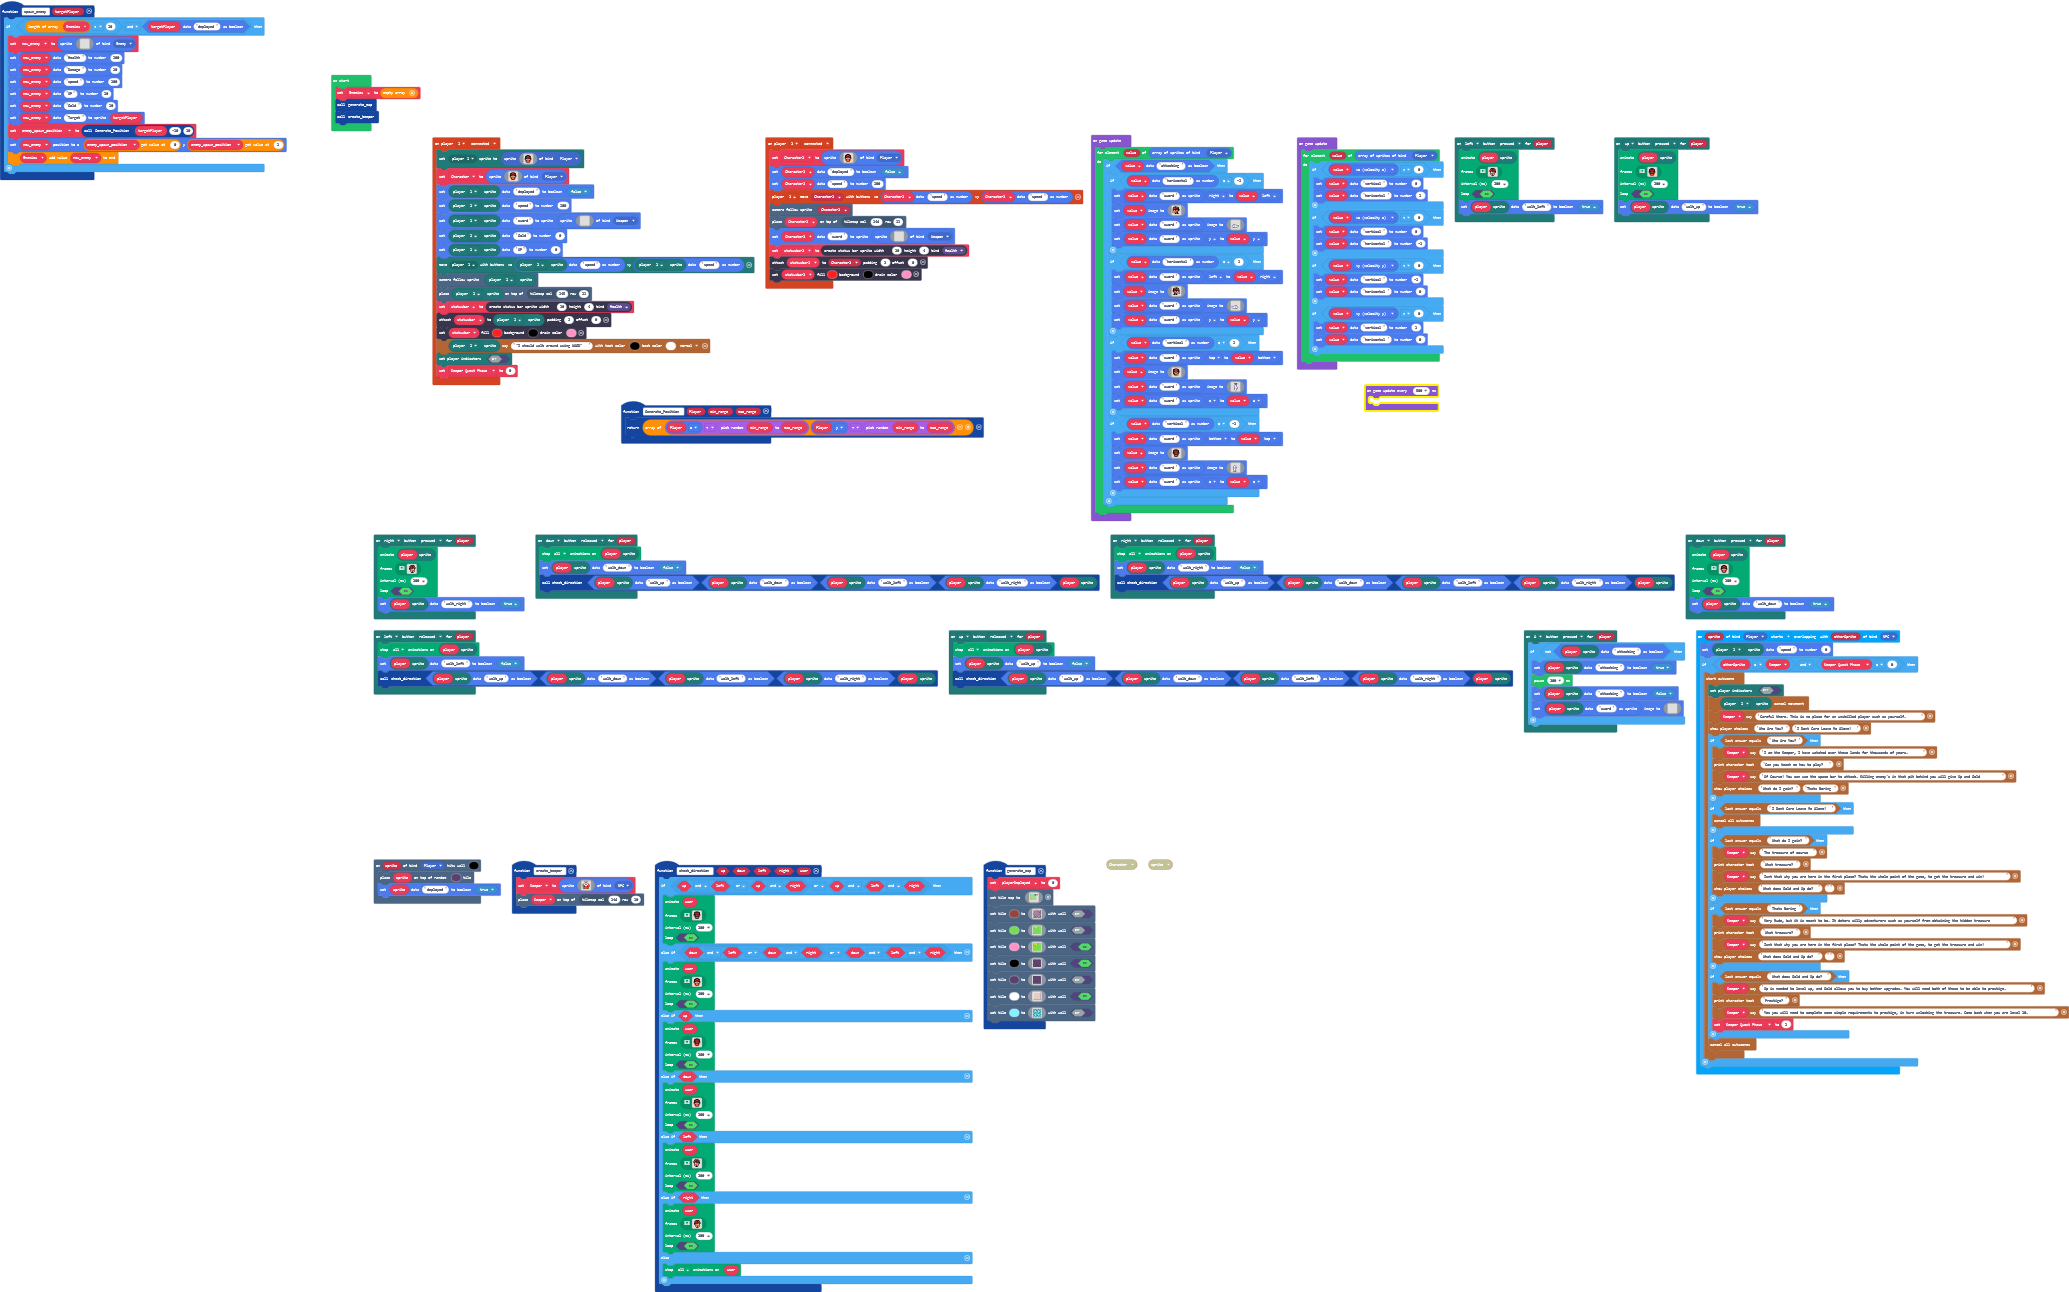
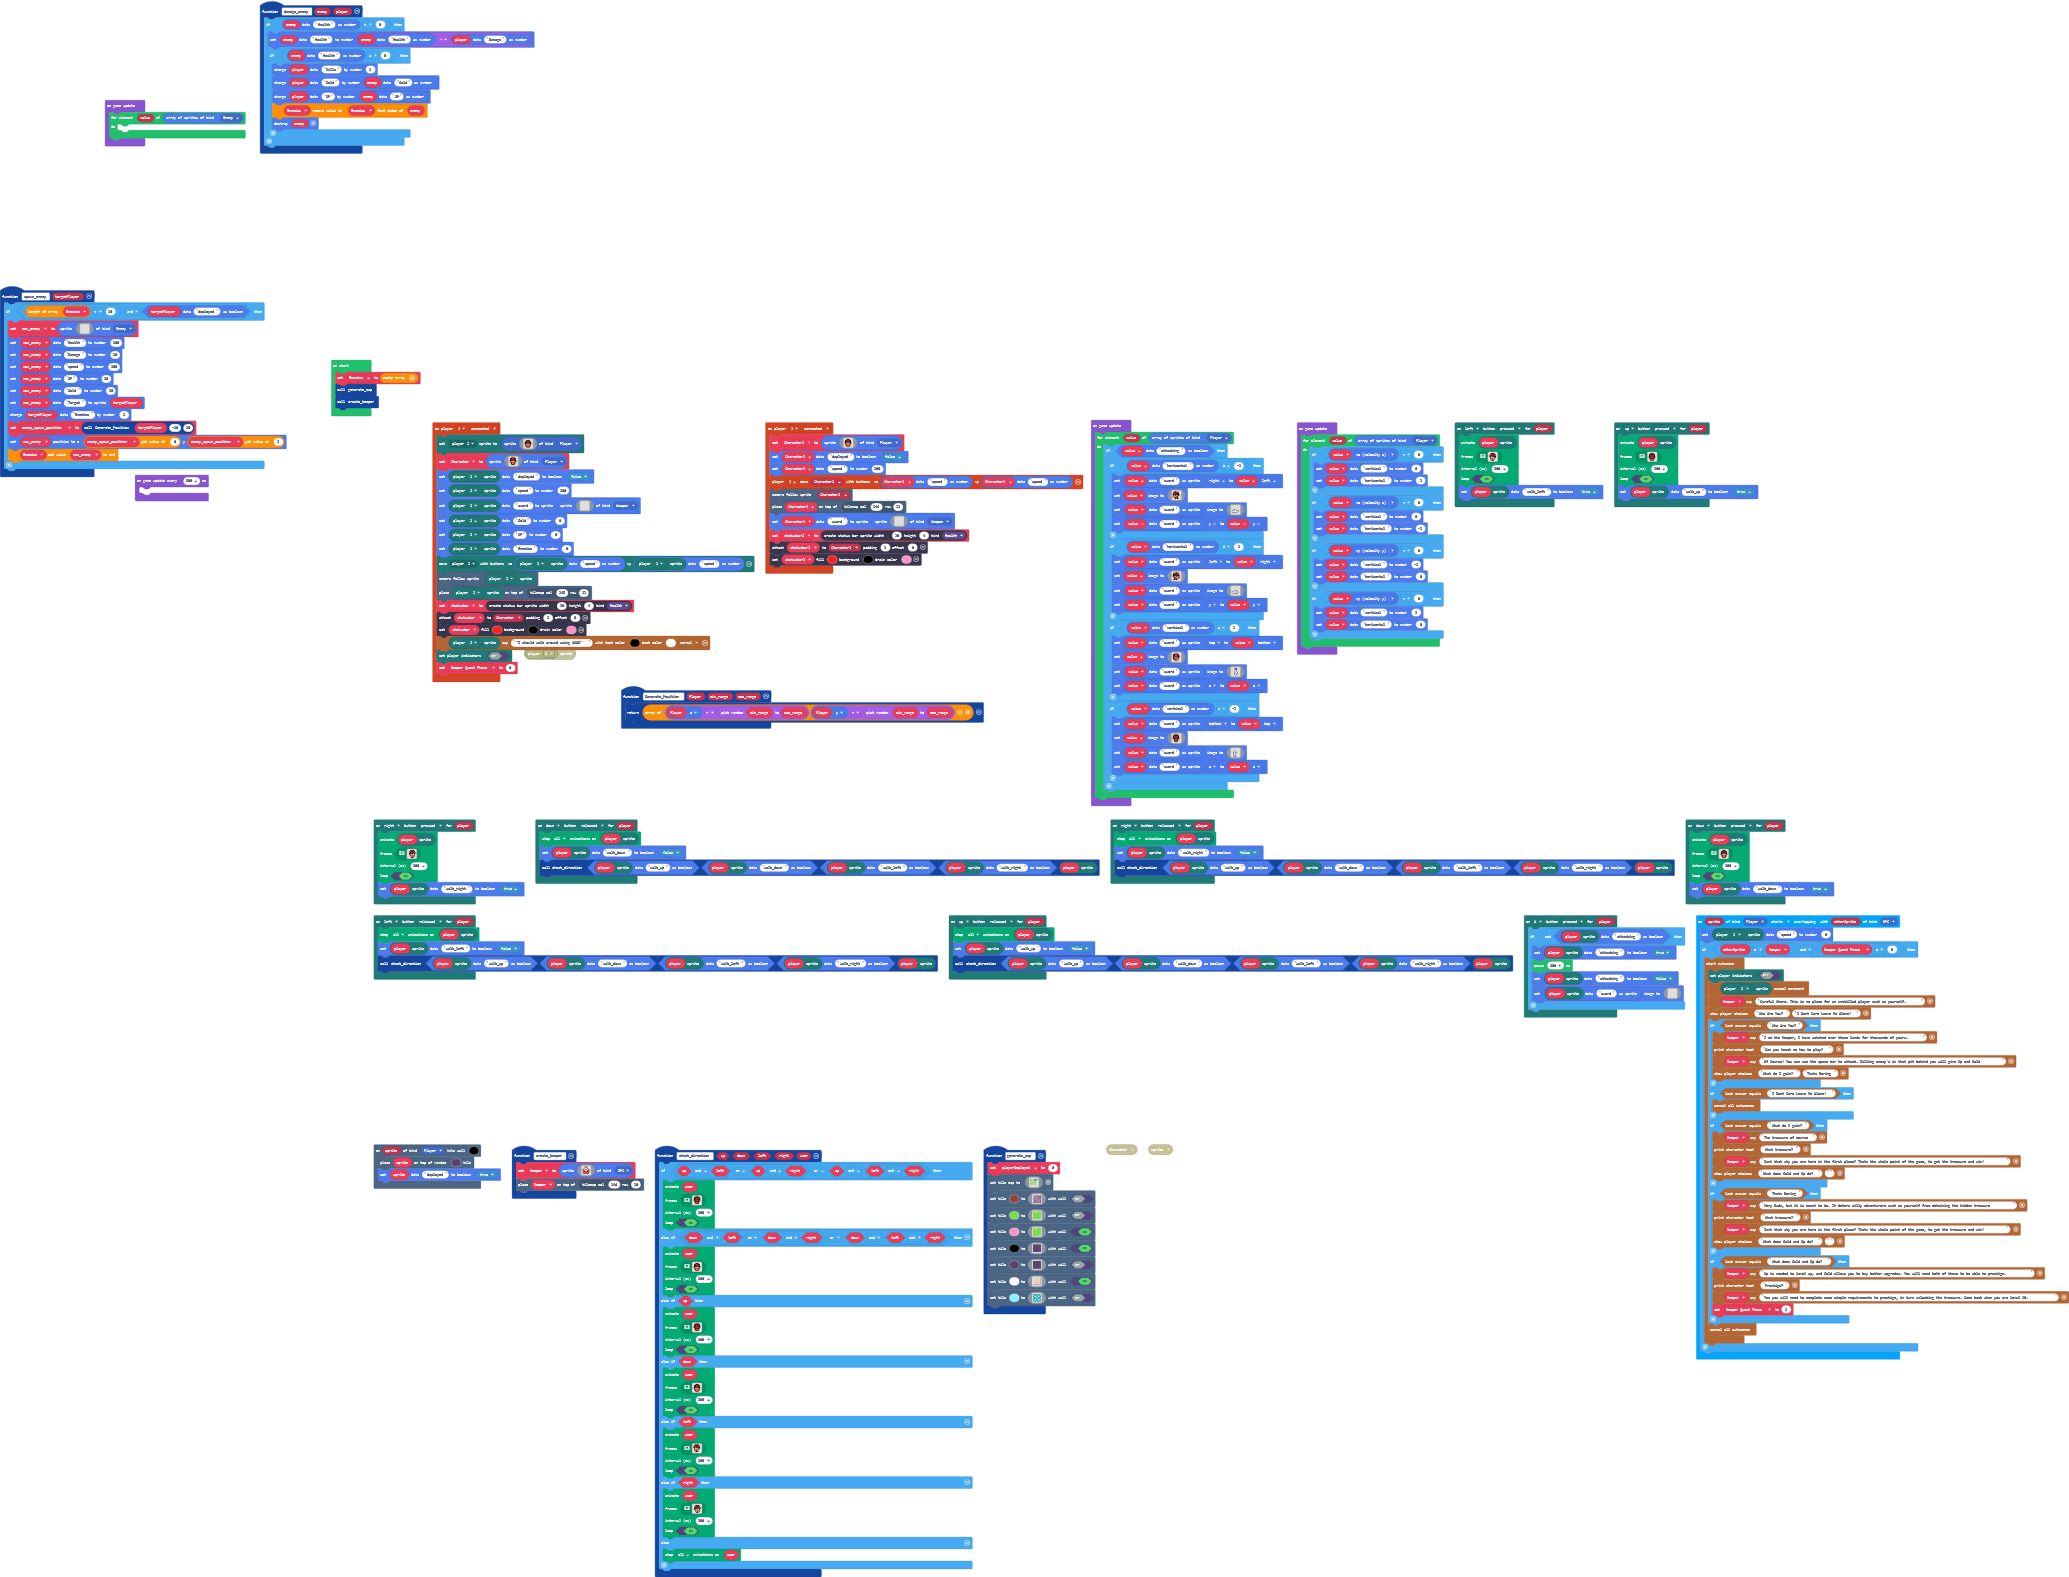
Update main.blocks, main.ts

Changed region(s): [[0.0, 0.0, 1.0, 0.8669], [0.1547, 0.6502, 0.5568, 1.0], [0.0, 0.1858, 0.1547, 0.3406]]

diff --git a/main.ts b/main.ts
@@ -807,6 +807,7 @@ function spawn_enemy (targetPlayer: Sprite) {
         sprites.setDataNumber(new_enemy, "XP", 10)
         sprites.setDataNumber(new_enemy, "Gold", 10)
         sprites.setDataSprite(new_enemy, "Target", targetPlayer)
+        sprites.changeDataNumberBy(targetPlayer, "Enemies", 1)
         enemy_spawn_position = Generate_Position(targetPlayer, -10, 10)
         new_enemy.setPosition(enemy_spawn_position[0], enemy_spawn_position[1])
         Enemies.push(new_enemy)
@@ -944,6 +945,18 @@ mp.onButtonEvent(mp.MultiplayerButton.Up, ControllerButtonEvent.Pressed, functio
     )
     sprites.setDataBoolean(mp.getPlayerSprite(player2), "walk_up", true)
 })
+function damage_enemy (enemy: Sprite, player2: Sprite) {
+    if (sprites.readDataNumber(enemy, "Health") > 0) {
+        sprites.setDataNumber(enemy, "Health", sprites.readDataNumber(enemy, "Health") - sprites.readDataNumber(player2, "Damage"))
+        if (sprites.readDataNumber(enemy, "Health") <= 0) {
+            sprites.changeDataNumberBy(player2, "Kills", 1)
+            sprites.changeDataNumberBy(player2, "Gold", sprites.readDataNumber(enemy, "Gold"))
+            sprites.changeDataNumberBy(player2, "XP", sprites.readDataNumber(enemy, "XP"))
+            Enemies.removeAt(Enemies.indexOf(enemy))
+            sprites.destroy(enemy)
+        }
+    }
+}
 controller.player1.onEvent(ControllerEvent.Connected, function () {
     mp.setPlayerSprite(mp.playerSelector(mp.PlayerNumber.One), sprites.create(img`
         . . . . . . f f f f . . . . . . 
@@ -1003,11 +1016,12 @@ controller.player1.onEvent(ControllerEvent.Connected, function () {
         `, SpriteKind.Weapon))
     sprites.setDataNumber(mp.getPlayerSprite(mp.playerSelector(mp.PlayerNumber.One)), "Gold", 0)
     sprites.setDataNumber(mp.getPlayerSprite(mp.playerSelector(mp.PlayerNumber.One)), "XP", 0)
+    sprites.setDataNumber(mp.getPlayerSprite(mp.playerSelector(mp.PlayerNumber.One)), "Enemies", 0)
     mp.moveWithButtons(mp.playerSelector(mp.PlayerNumber.One), sprites.readDataNumber(mp.getPlayerSprite(mp.playerSelector(mp.PlayerNumber.One)), "speed"), sprites.readDataNumber(mp.getPlayerSprite(mp.playerSelector(mp.PlayerNumber.One)), "speed"))
     scene.cameraFollowSprite(mp.getPlayerSprite(mp.playerSelector(mp.PlayerNumber.One)))
     tiles.placeOnTile(mp.getPlayerSprite(mp.playerSelector(mp.PlayerNumber.One)), tiles.getTileLocation(145, 11))
     statusbar = statusbars.create(20, 4, StatusBarKind.Health)
-    statusbar.attachToSprite(mp.getPlayerSprite(mp.playerSelector(mp.PlayerNumber.One)), 2, 0)
+    statusbar.attachToSprite(Character, 2, 0)
     statusbar.setColor(2, 15, 3)
     story.spriteSayText(mp.getPlayerSprite(mp.playerSelector(mp.PlayerNumber.One)), "\"I should walk around using WASD\"", 15, 1, story.TextSpeed.Normal)
     mp.setPlayerIndicatorsVisible(false)
@@ -1156,6 +1170,11 @@ let Enemies: Sprite[] = []
 Enemies = []
 generate_map()
 create_keeper()
+game.onUpdate(function () {
+    for (let value of sprites.allOfKind(SpriteKind.Enemy)) {
+    	
+    }
+})
 game.onUpdate(function () {
     for (let value of sprites.allOfKind(SpriteKind.Player)) {
         if (sprites.readDataBoolean(value, "attacking")) {
